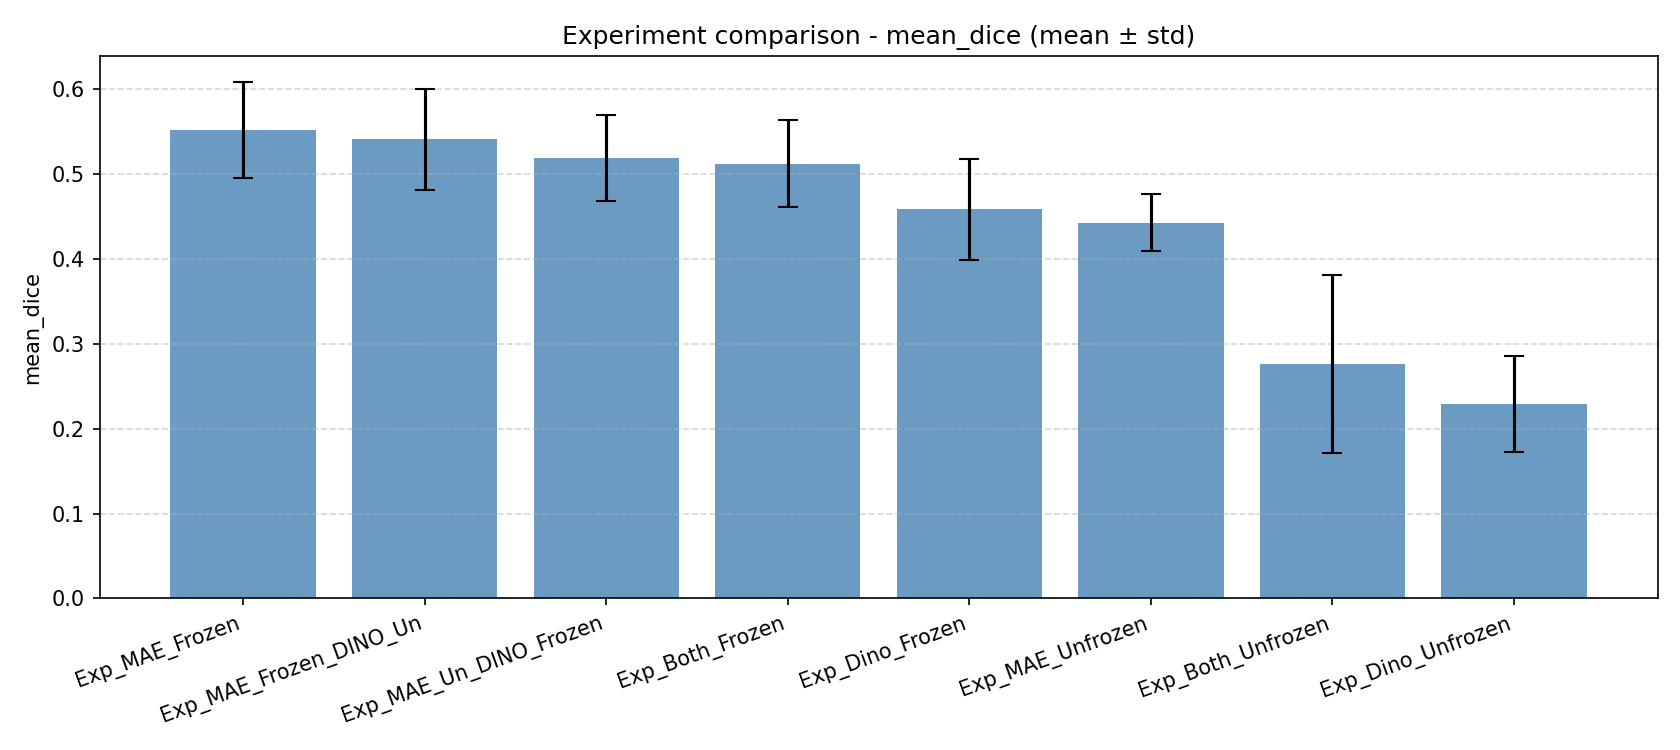
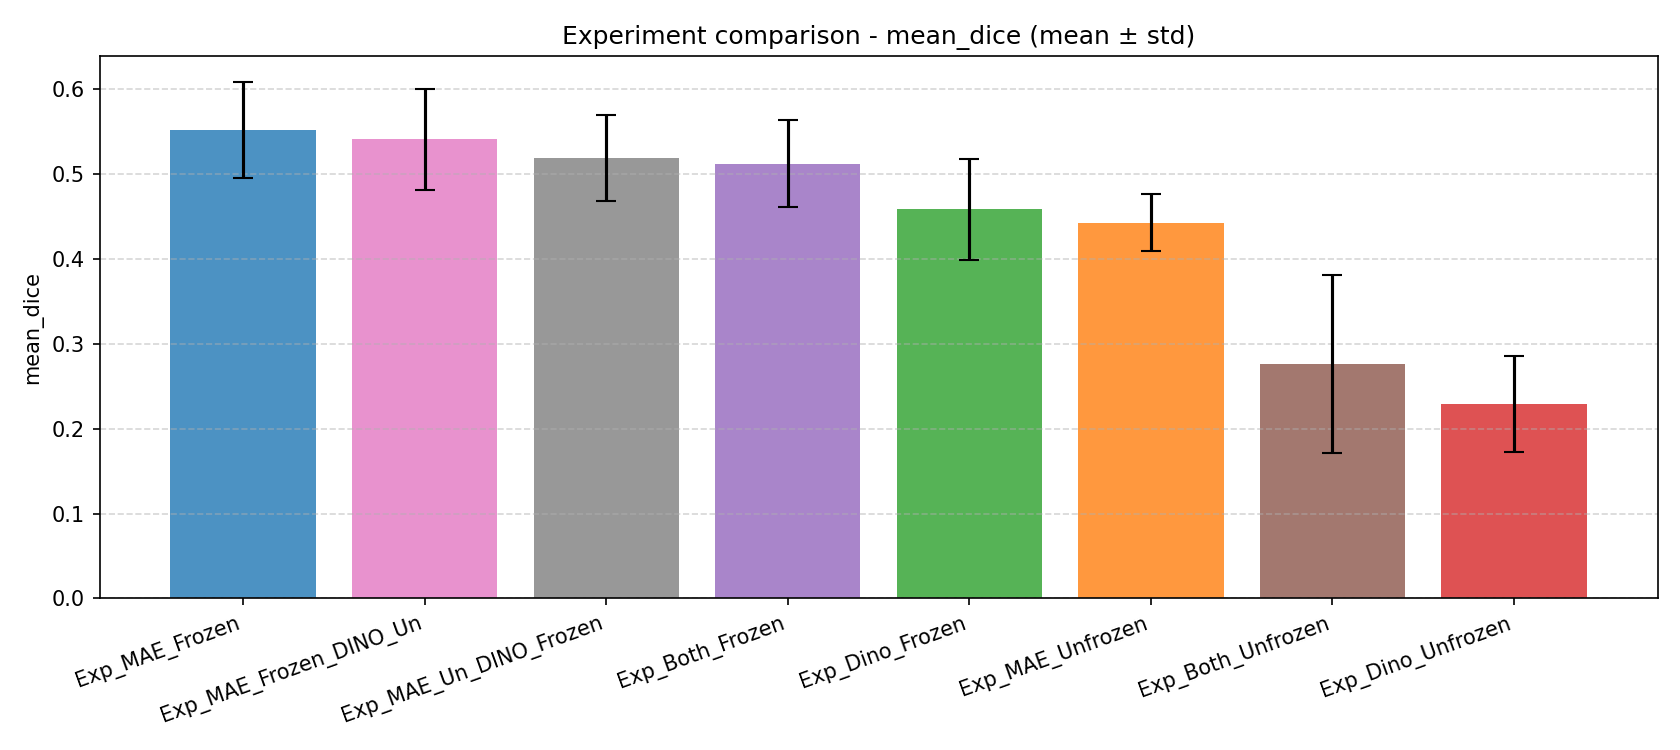
feat: colors in get_stats_and_figures

diff --git a/get_stats_and_figures.py b/get_stats_and_figures.py
@@ -13,6 +13,30 @@ METRICS = ["mean_dice", "dice_label1", "dice_label2", "mean_iou", "hd95"]
 PRIMARY_METRIC = "mean_dice"
 LOWER_IS_BETTER = {"hd95"}
 
+_TAB10 = plt.cm.get_cmap("tab10").colors
+
+EXPERIMENT_COLORS: dict[str, tuple] = {
+    # MAE experiments
+    "Exp_MAE_Frozen":           _TAB10[0],
+    "Exp_MAE_Unfrozen":         _TAB10[1],
+    # DINO experiments
+    "Exp_Dino_Frozen":          _TAB10[2],
+    "Exp_Dino_Unfrozen":        _TAB10[3],
+    # Dual (Both) experiments
+    "Exp_Both_Frozen":          _TAB10[4],
+    "Exp_Both_Unfrozen":        _TAB10[5],
+    "Exp_MAE_Frozen_DINO_Un":   _TAB10[6],
+    "Exp_MAE_Un_DINO_Frozen":   _TAB10[7],
+}
+
+
+def exp_color(name: str) -> tuple:
+    """Returns the tab10 colour for a given experiment name.
+    Falls back to a deterministic tab10 index for unknown names."""
+    if name in EXPERIMENT_COLORS:
+        return EXPERIMENT_COLORS[name]
+    # Fallback: hash the name to a tab10 index
+    return _TAB10[hash(name) % 10]
 
 
 def load_results(outputs_dir: Path) -> pd.DataFrame:
@@ -63,7 +87,8 @@ def plot_experiment_comparison(stats: pd.DataFrame, metric: str, out_dir: Path) 
 
     fig, ax = plt.subplots(figsize=(max(8, len(exp_names) * 1.4), 5))
     x = np.arange(len(exp_names))
-    ax.bar(x, means, yerr=stds, capsize=5, color="steelblue", alpha=0.8)
+    colors = [exp_color(e) for e in exp_names]
+    ax.bar(x, means, yerr=stds, capsize=5, color=colors, alpha=0.8)
     ax.set_xticks(x)
     ax.set_xticklabels(exp_names, rotation=20, ha="right")
     ax.set_ylabel(metric)
@@ -89,8 +114,9 @@ def plot_per_fold(results: pd.DataFrame, stats: pd.DataFrame, metric: str, out_d
     for ax, fold in zip(axes, folds):
         fold_data = results[results["fold"] == fold].set_index("experiment")
         values = [fold_data.loc[e, metric] if e in fold_data.index else float("nan") for e in exp_order]
+        colors = [exp_color(e) for e in exp_order]
         x = np.arange(len(exp_order))
-        ax.bar(x, values, color="steelblue", alpha=0.8)
+        ax.bar(x, values, color=colors, alpha=0.8)
         ax.set_xticks(x)
         ax.set_xticklabels(exp_order, rotation=30, ha="right", fontsize=7)
         ax.set_title("Fold %d" % fold)
